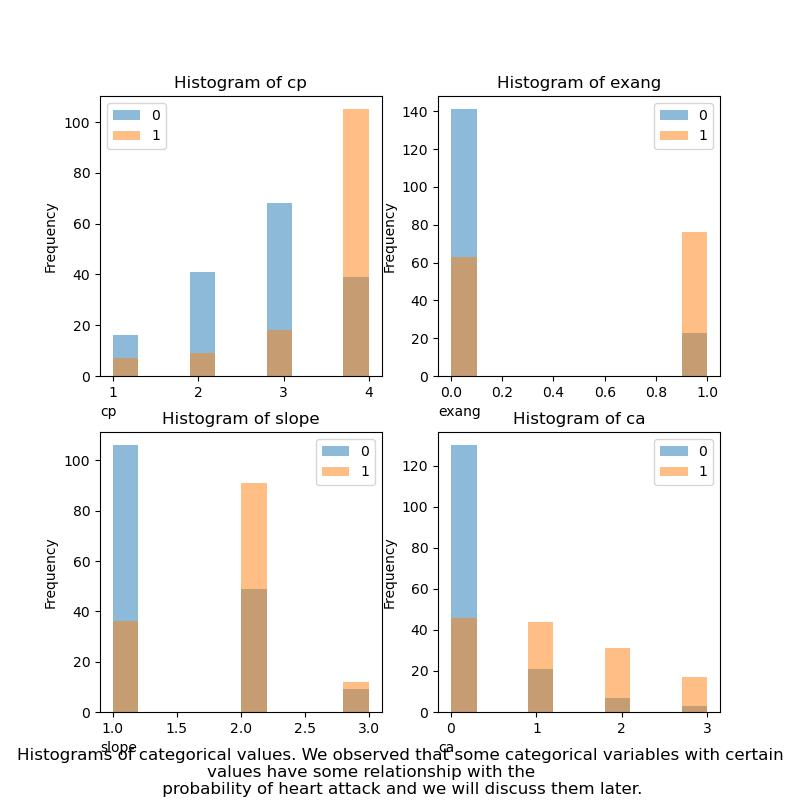
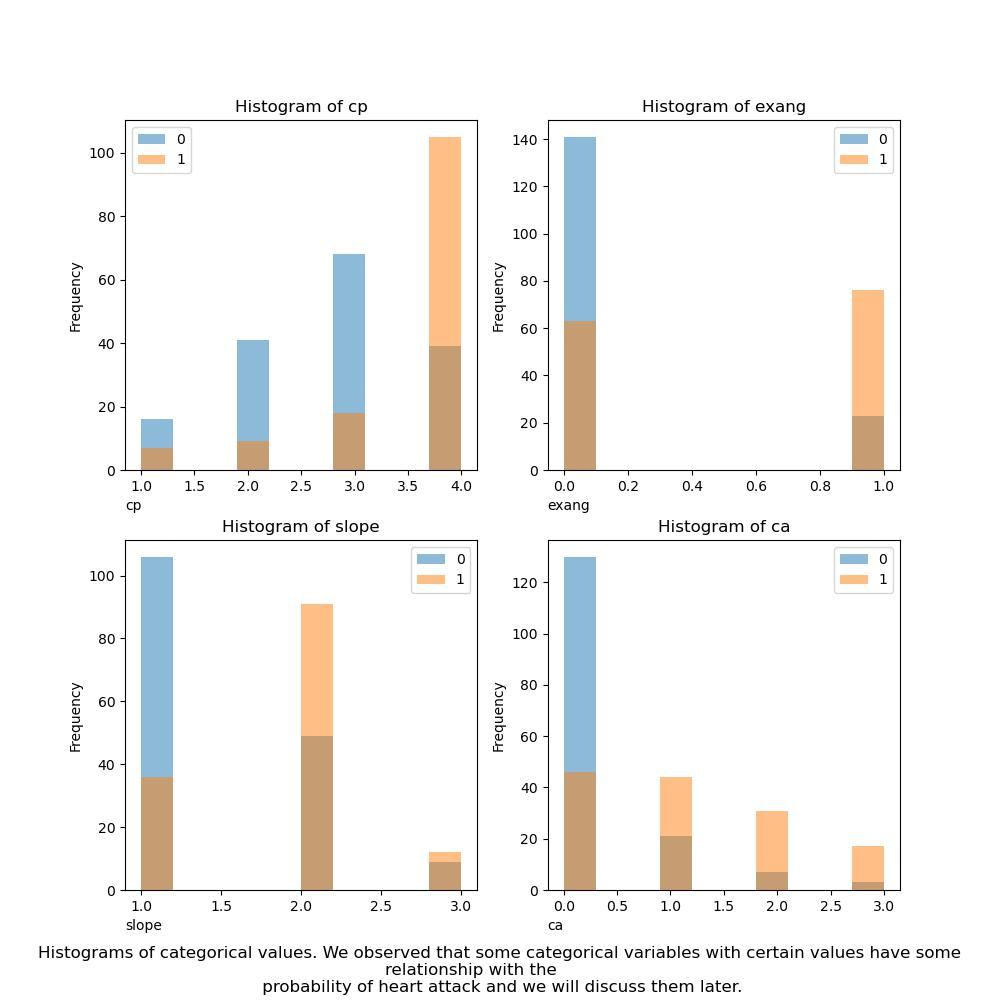
fix typo of EDA script

diff --git a/src/EDA_visulization.py b/src/EDA_visulization.py
@@ -60,7 +60,7 @@ def main(train, out_dir):
     fig, axs = plt.subplots(nrows=3, ncols=2, figsize=(10, 10))
     for col, ax in zip(num_cols, axs.ravel()):
         data.groupby("target")[col].plot.hist(ax = ax, bins=10, alpha=0.5, legend=True,title='Histogram of ' + col)
-        ax.set_xlabel(col)
+        ax.set_xlabel(col,loc="left")
     txt="Histograms of numeric values. We observed that higher age, lower maximum heart rate achieved (thalac) \
          \n and higher ST depression induced by exercise relative to rest (oldpeak) seems to be more frequent in the people with diagnosed heart disease"
     plt.figtext(0.5, 0.01, txt, wrap=True, horizontalalignment='center', fontsize=12)
@@ -72,7 +72,7 @@ def main(train, out_dir):
     dfi.export(corr,  out_dir + "/corr.png")
     
     #categorical features plot(only significant features)
-    fig, axs = plt.subplots(nrows=2, ncols=2, figsize=(8, 8))
+    fig, axs = plt.subplots(nrows=2, ncols=2, figsize=(10,10))
     categorical_features = ["cp","exang","slope","ca","thal"]
     for col, ax in zip(categorical_features, axs.ravel()):
               data.groupby("target")[col].plot.hist(ax = ax, bins=10, alpha=0.5, legend=True
